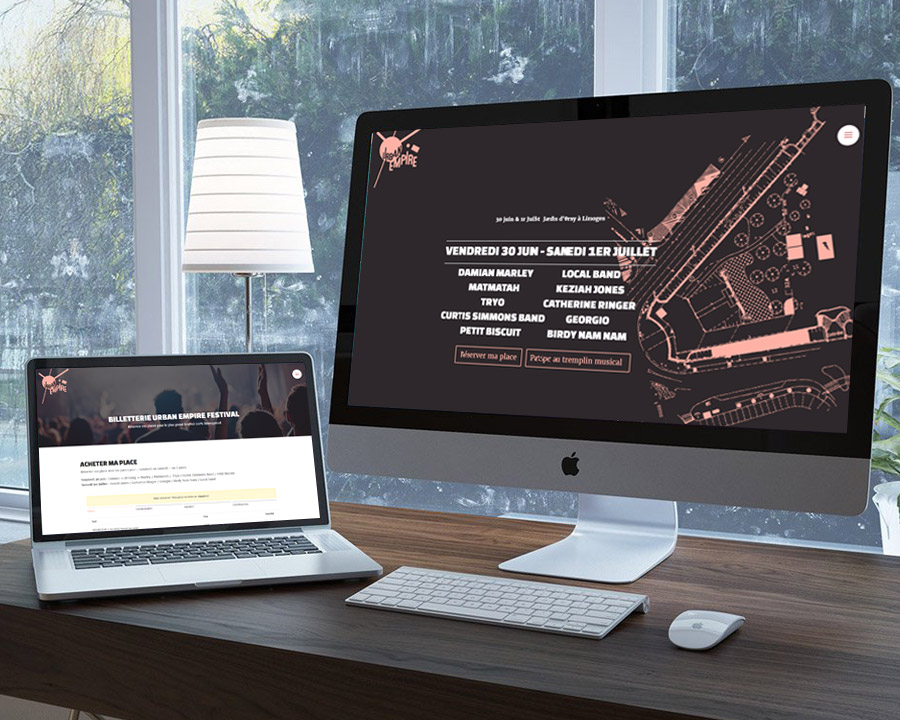
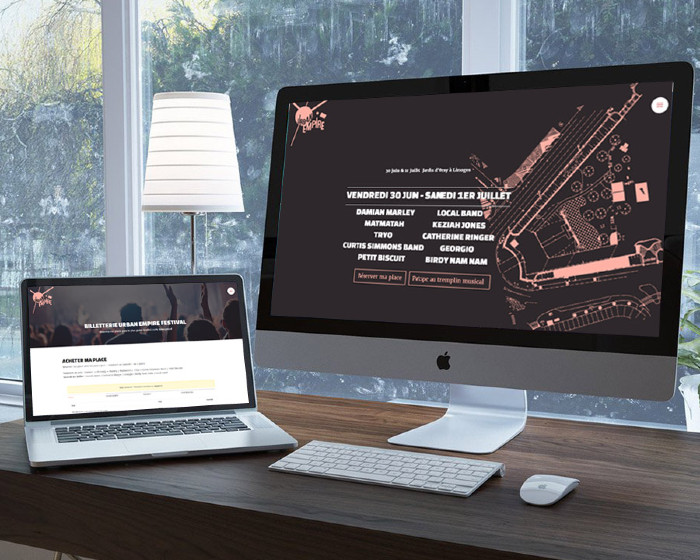
add images for realisations

diff --git a/index.html b/index.html
@@ -213,10 +213,10 @@
                 <div class="col col3">
                     <article class="card">
                         <div class="card-header">
-                            <img src="https://fakeimg.pl/550x350/444444?text=centre-interet">
+                            <img src="./images/mockups-realisations/lhommeenbleu-magazine--en-ligne-limoges-limousin.jpg" alt="mockup site internet lhommeenbleu.fr">
                         </div>
                         <div class="card-content">
-                            <h3>Réalisation 1</h3>
+                            <h3>L’Homme en Bleu</h3>
                             <p>Lorem ipsum dolor sit amet consectetur adipisicing elit. Quasi tempore nemo totam non dicta laudantium quibusdam cum! Quaerat, aspernatur, iusto placeat, maxime architecto eaque aliquam adipisci ea nam fugiat error!</p>
                         </div>
                     </article>
@@ -224,10 +224,10 @@
                 <div class="col col3">
                     <article class="card">
                         <div class="card-header">
-                            <img src="https://fakeimg.pl/550x350/444444?text=centre-interet">
+                            <img src="./images/mockups-realisations/vinoble-caviste-limoges-creation-site-web.jpg" alt="mockup siute internet vinoble caviste">
                         </div>
                         <div class="card-content">
-                            <h3>Réalisation 2</h3>
+                            <h3>Vinoble</h3>
                             <p>Lorem ipsum dolor sit amet consectetur adipisicing elit. Quasi tempore nemo totam non dicta laudantium quibusdam cum! Quaerat, aspernatur, iusto placeat, maxime architecto eaque aliquam adipisci ea nam fugiat error!</p>
                         </div>
                     </article>
@@ -235,10 +235,10 @@
                 <div class="col col3">
                     <article class="card">
                         <div class="card-header">
-                            <img src="https://fakeimg.pl/550x350/444444?text=centre-interet">
+                            <img src="./images/mockups-realisations/urban-empire-festival-limoges.jpg" alt="mockup site internet urban empire festival">
                         </div>
                         <div class="card-content">
-                            <h3>Réalisation 3</h3>
+                            <h3>Urban Empire</h3>
                             <p>Lorem ipsum dolor sit amet consectetur adipisicing elit. Quasi tempore nemo totam non dicta laudantium quibusdam cum! Quaerat, aspernatur, iusto placeat, maxime architecto eaque aliquam adipisci ea nam fugiat error!</p>
                         </div>
                     </article>

diff --git a/style.css b/style.css
@@ -197,9 +197,6 @@ button {
 /********************************/
 /* General structure*/
 /********************************/
-main {
-    scroll-behavior: smooth;
-}
 
 .section, header, footer {
     display: flex;
